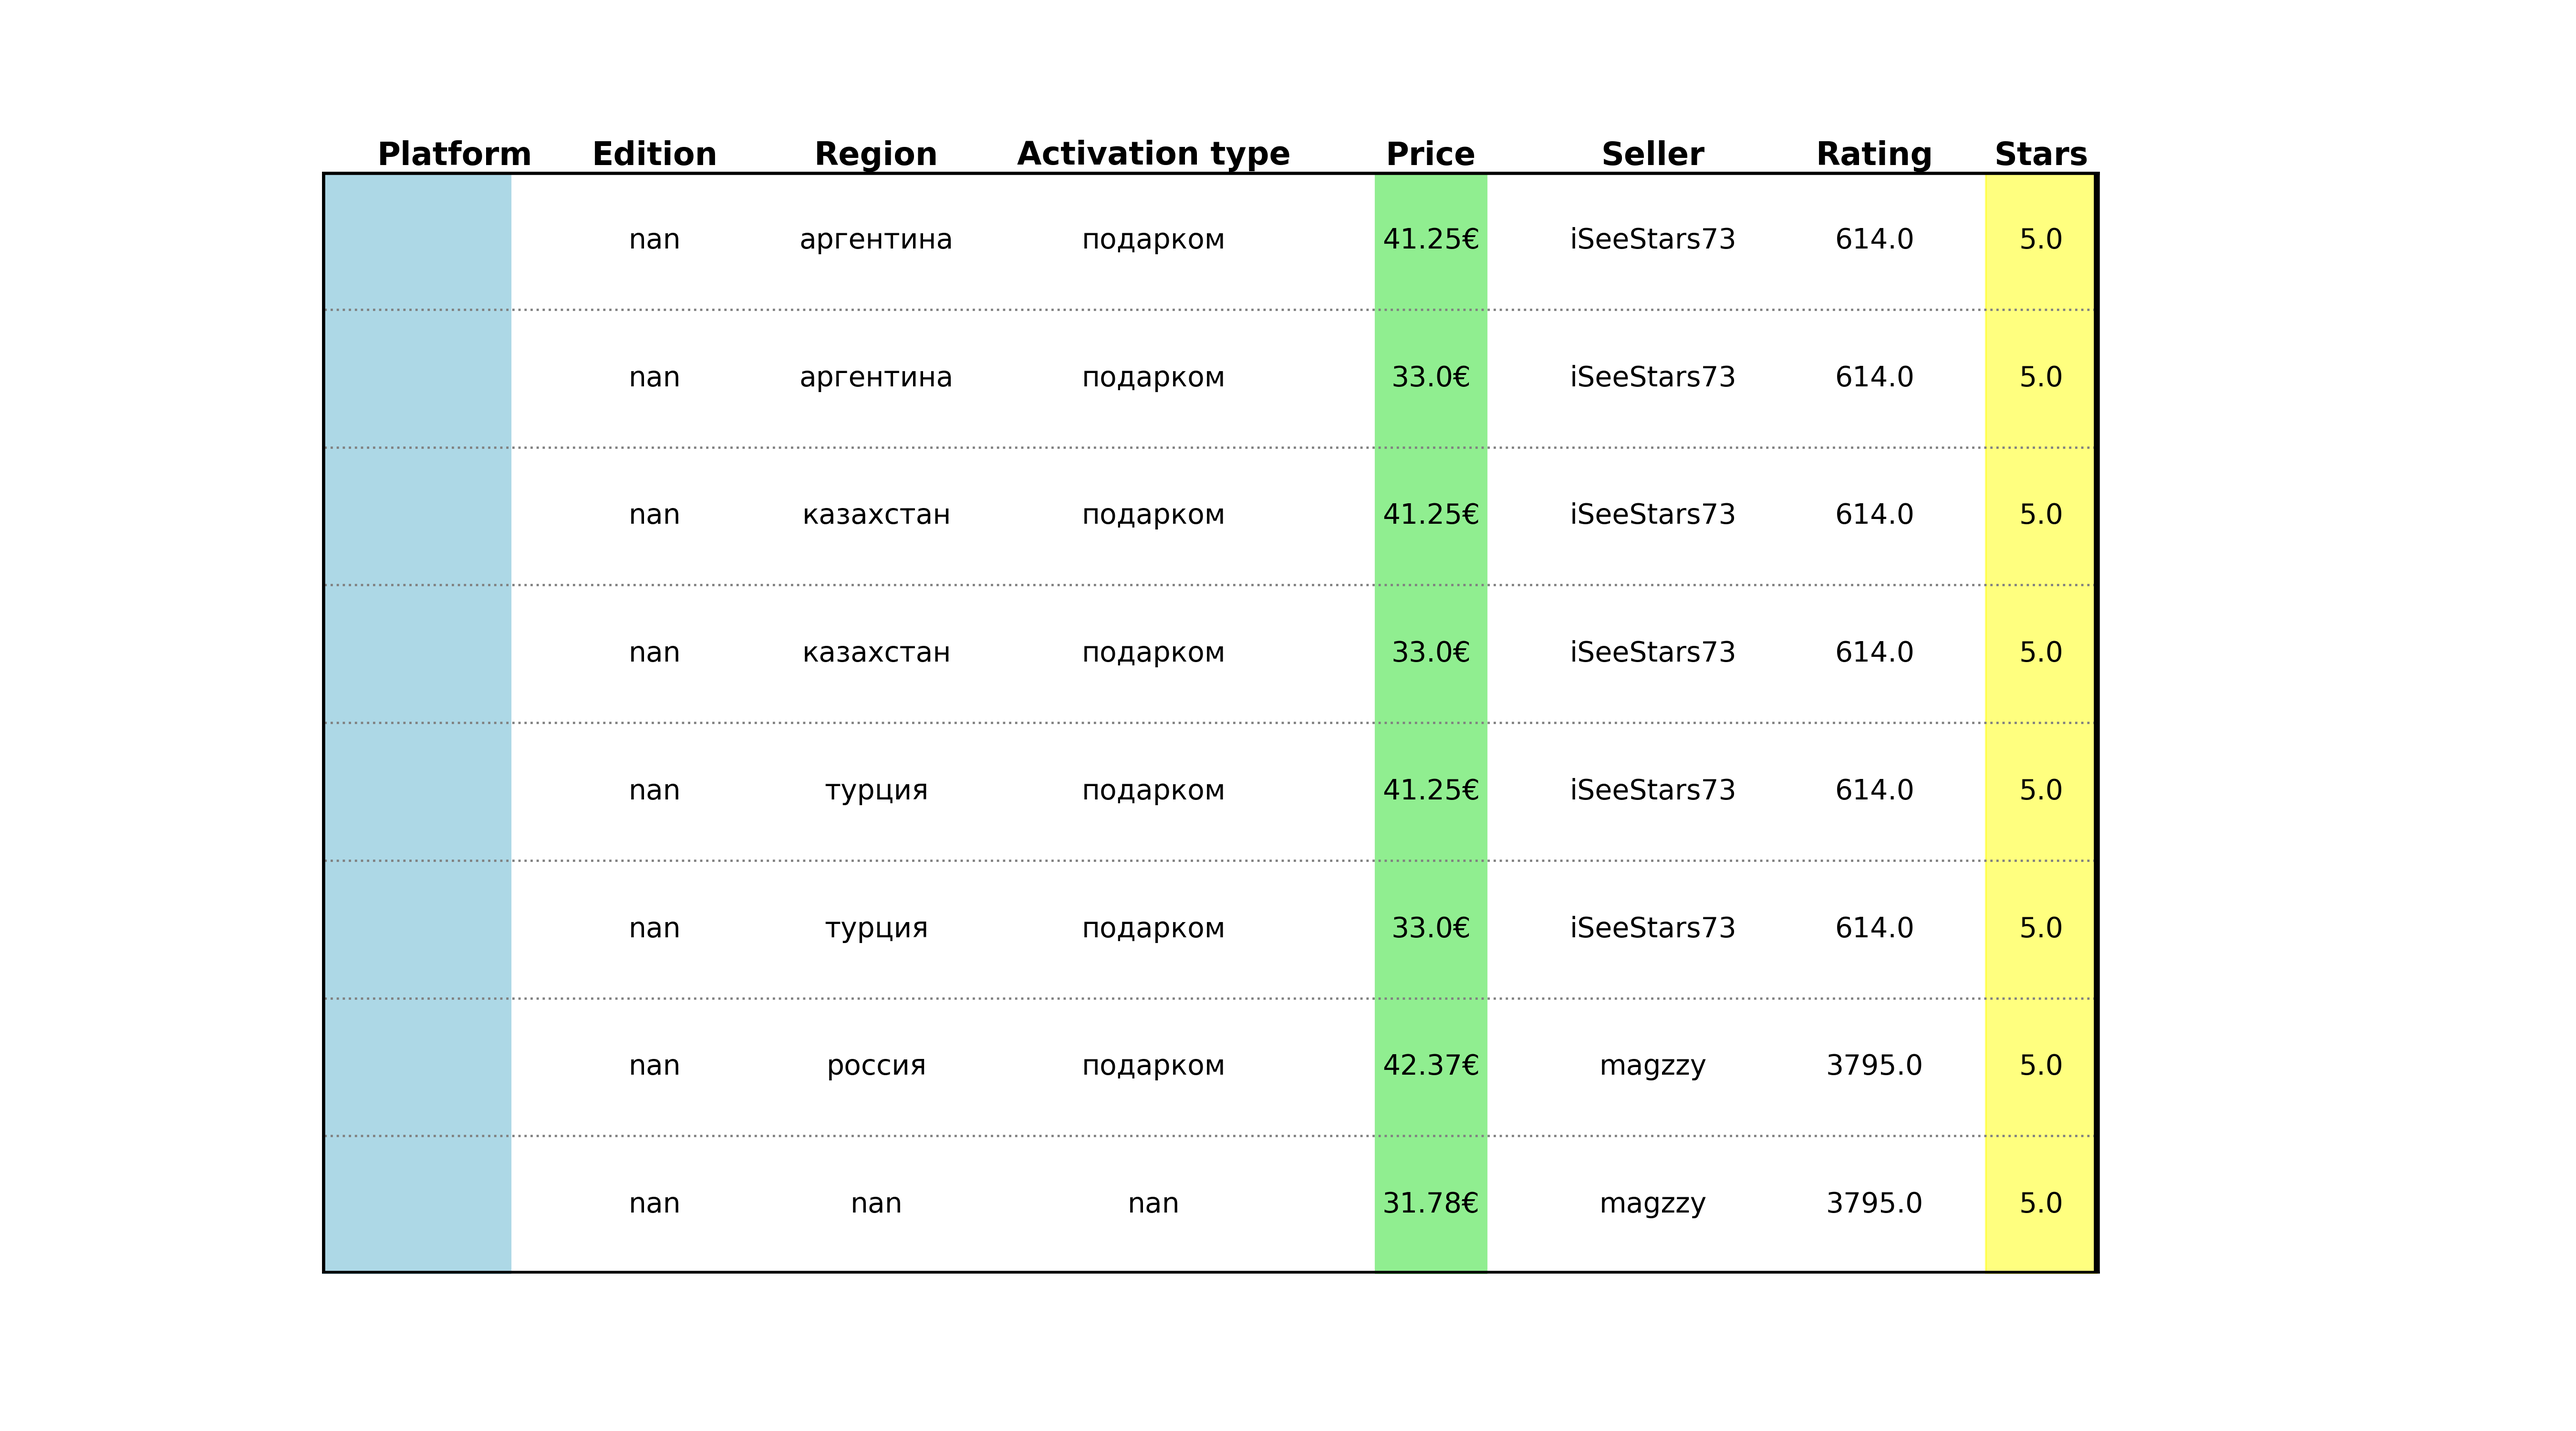
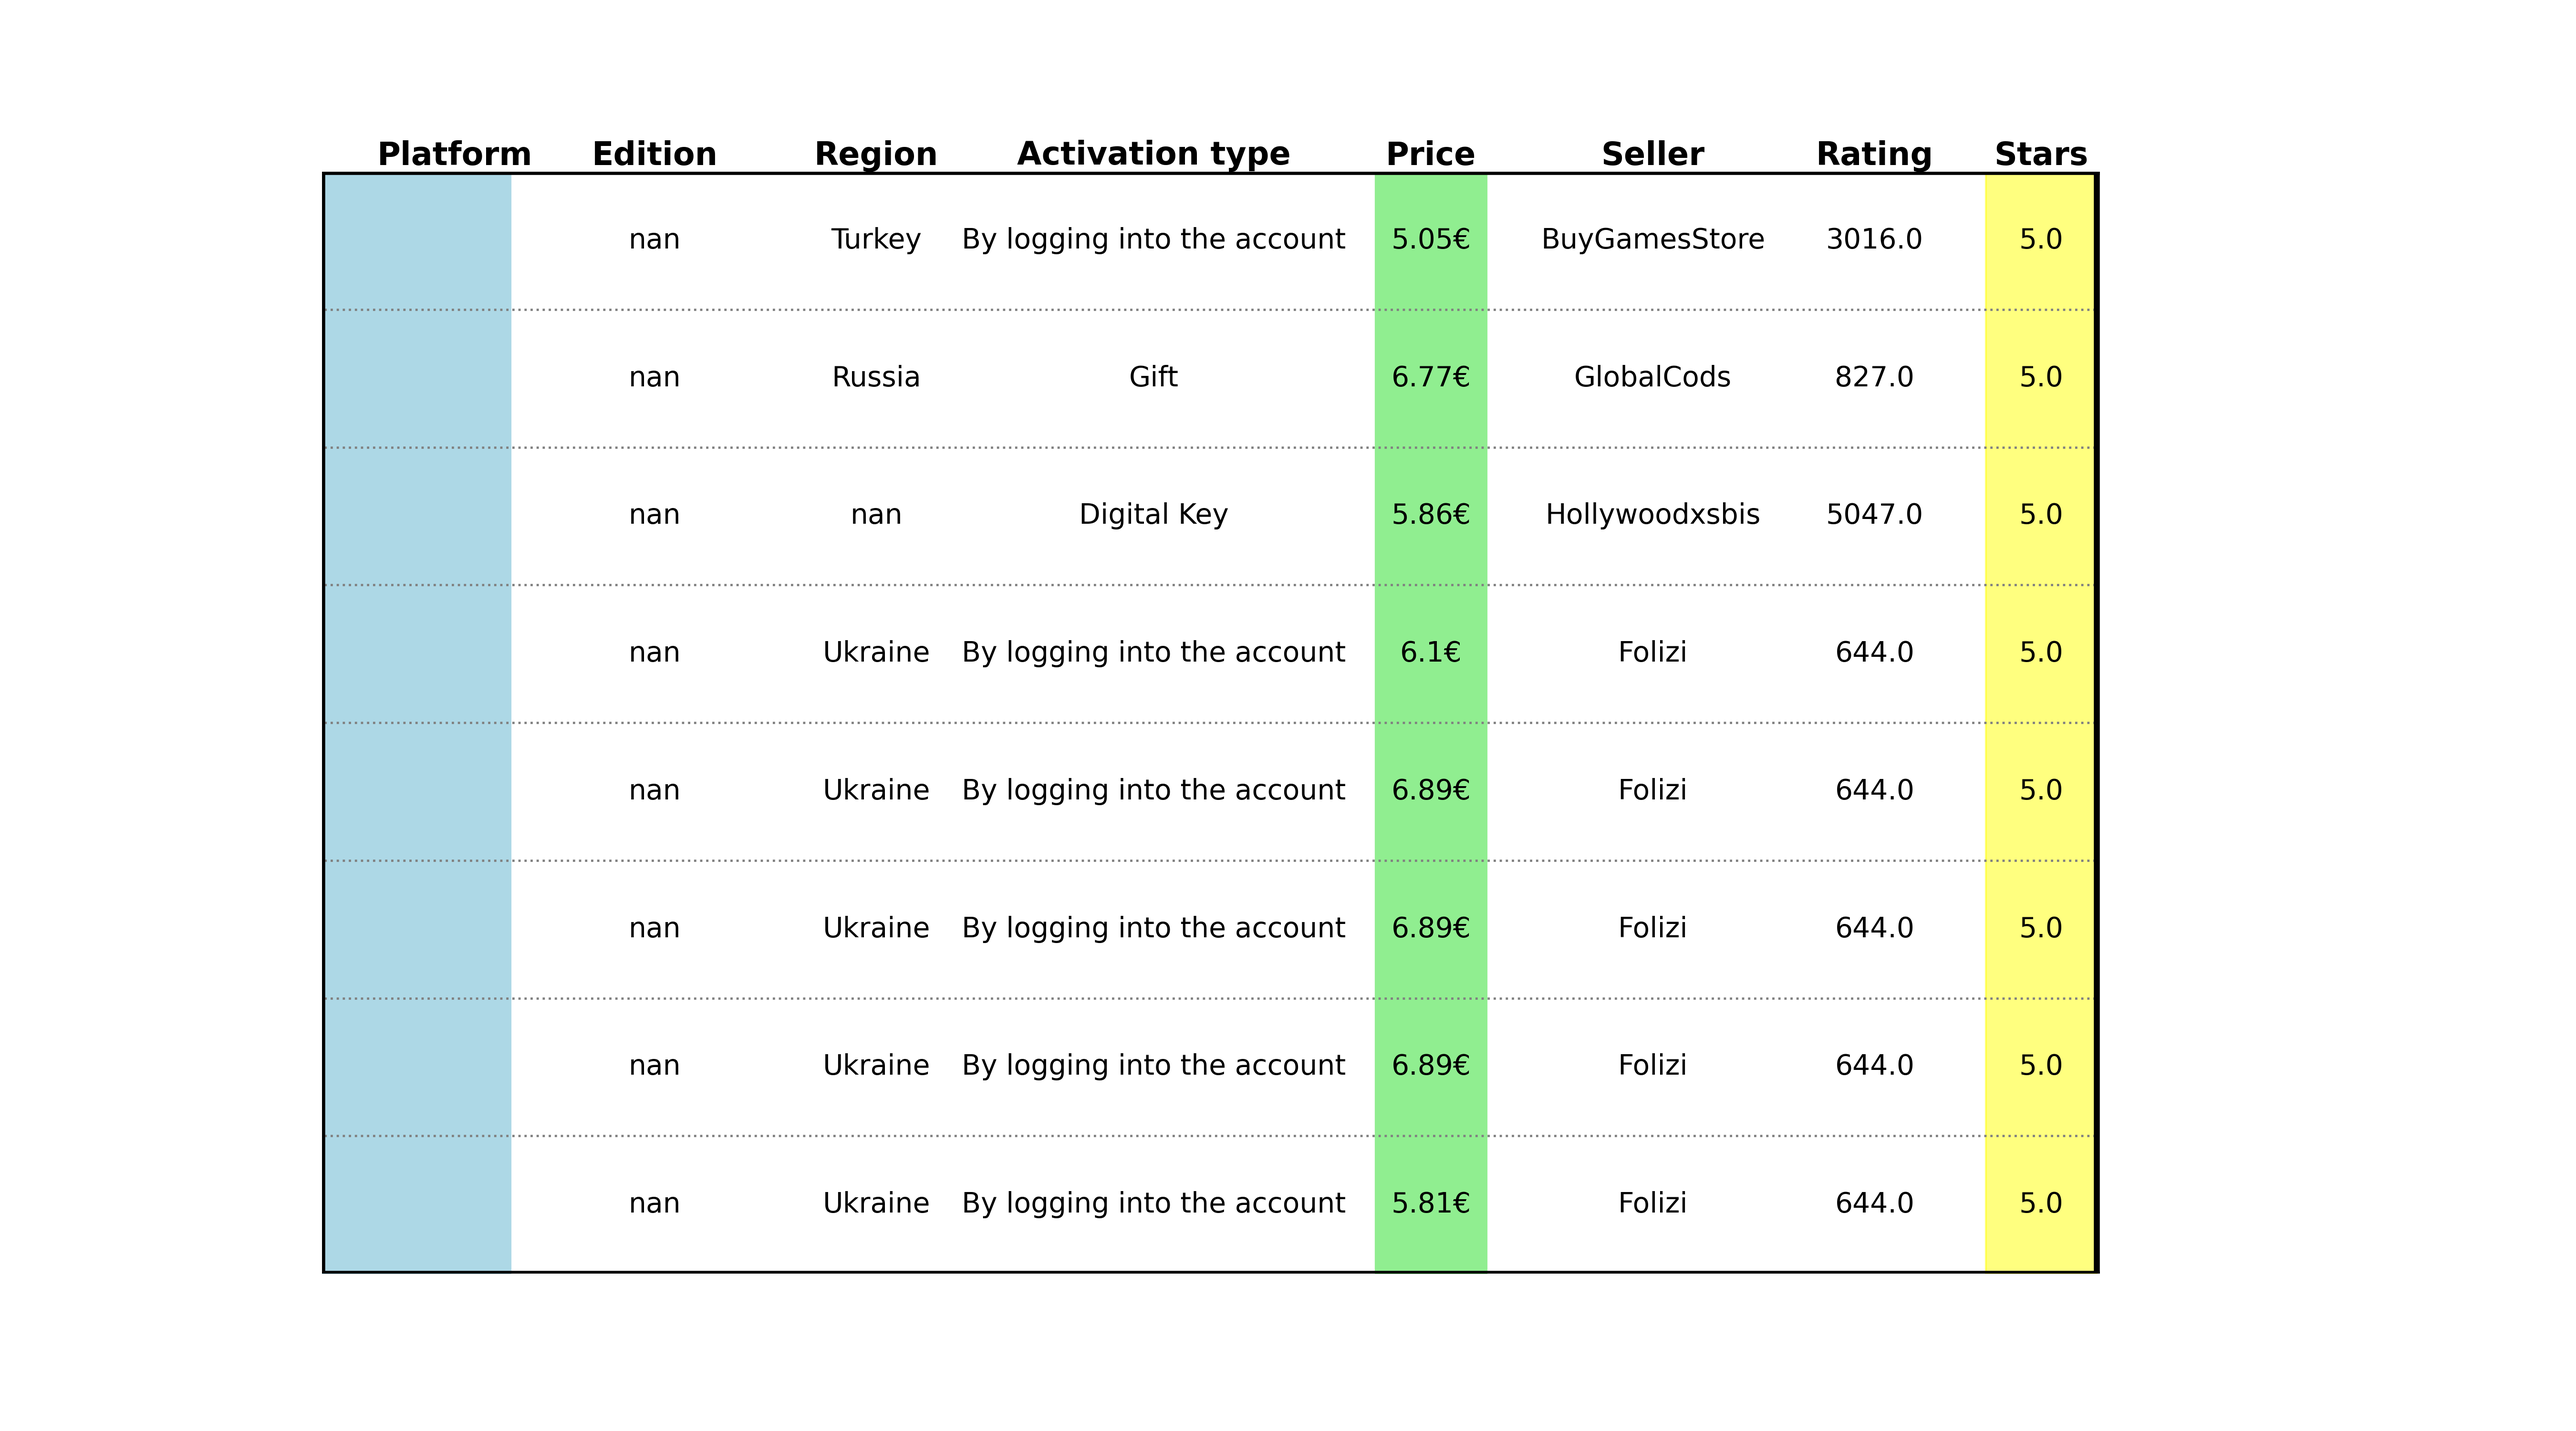
updated parsing

diff --git a/parsing.py b/parsing.py
@@ -2,11 +2,64 @@ import requests
 from bs4 import BeautifulSoup
 import pandas as pd
 
+import main
 
-def parsing_function(url):
+
+def find_game_key_link(funpay_url, game_title):
+    response = requests.get(funpay_url)
+    if response.status_code != 200:
+        print("Failed to retrieve the webpage")
+        return None
+
+    soup = BeautifulSoup(response.content, 'html.parser')
+
+    game_items = soup.find_all('div', class_='promo-game-item')
+
+    for game_item in game_items:
+        title_div = game_item.find('div', class_='game-title')
+        if title_div and title_div.get_text(strip=True) == game_title:
+            ul_list = game_item.find('ul', {'data-id': title_div['data-id']})
+            if ul_list:
+                for li in ul_list.find_all('li'):
+                    if li.get_text(strip=True) == 'Keys':
+                        link = li.find('a', href=True)['href']
+                        return link
+
+    return None
 
 
-    response = requests.get(url)
+# Translation dictionary
+edition_translation_dict = {
+    "улучшение издания": "Edition upgrade"
+}
+
+region_translation_dict = {
+    "россия": "Russia",
+    "украина": "Ukraine",
+    "казахстан": "Kazakhstan",
+    "снг": "CIS",
+    "другой регион": "Other region",
+    "турция": "Turkey",
+    "аргентина": "Argentina"
+}
+
+activation_type_translation_dict = {
+    "с заходом на аккаунт": "By logging into the account",
+    "цифровой ключ": "Digital Key",
+    "подарком": "Gift"
+}
+
+
+def replace_text_using_dict(text, translation_dict):
+    if text in translation_dict:
+        return translation_dict[text]
+    return text
+
+
+def funpay_parsing(game_title):
+    funpay_url = 'https://funpay.com/en/'
+    link = find_game_key_link(funpay_url, game_title)
+    response = requests.get(link)
     html_doc = response.text
 
     soup = BeautifulSoup(html_doc, 'html.parser')
@@ -15,20 +68,36 @@ def parsing_function(url):
 
     data = []
 
-    for item in items:
+    for index, item in enumerate(items):
+        print(f"Processing item {index + 1}/{len(items)}")
+
         link = item.get('href', '')
+
         platform = item.get('data-f-platform', '')
+        if not platform:
+            platform_div = item.find('div', class_='tc-server-inside')
+            platform = platform_div.get_text(strip=True) if platform_div else ''
+
         edition = item.get('data-f-type', '')
         region = item.get('data-f-region', '')
         activation_type = item.get('data-f-method', '')
+
+        edition = replace_text_using_dict(edition, edition_translation_dict)
+        region = replace_text_using_dict(region, region_translation_dict)
+        activation_type = replace_text_using_dict(activation_type, activation_type_translation_dict)
+
         price_div = item.find('div', class_='tc-price')
         price = price_div.get_text(strip=True).replace('€', '').strip() if price_div else ''
+
         seller_div = item.find('div', class_='media-user-name')
         seller = seller_div.get_text(strip=True) if seller_div else ''
+
         rating_span = item.find('span', class_='rating-mini-count')
         rating = rating_span.get_text(strip=True) if rating_span else ''
+
         stars_div = item.find('div', class_='rating-stars')
         stars = stars_div['class'][1].split('-')[-1] if stars_div and 'class' in stars_div.attrs else ''
+
         avatar_photo_div = item.find('div', class_='avatar-photo')
         seller_profile = avatar_photo_div[
             'data-href'] if avatar_photo_div and 'data-href' in avatar_photo_div.attrs else ''
@@ -49,3 +118,8 @@ def parsing_function(url):
     df = pd.DataFrame(data)
 
     df.to_excel('scraped_data.xlsx', index=False)
+
+    print("Data scraping completed.")
+
+
+

diff --git a/main.py b/main.py
@@ -14,6 +14,7 @@ import json
 from telegram.ext import Updater
 import os
 
+
 with open(os.path.dirname(os.path.realpath(__file__)) + '/token.txt') as file:
     TOKEN = file.readline().strip()
 
@@ -61,13 +62,15 @@ def validation_of_game(message, user_input, Option):
     if url is not None:
         if Option == 'first':
             print('ok')
-            parsing.parsing_function(str(url))
-            print('nice')
+            #update_game_title(user_input)
+            #parsing_info = user_input
+            parsing.funpay_parsing(str(user_input))
+
             process_first_option_input(message)
 
         else:
-            print('not ok')
-            parsing.parsing_function(str(url))
+            parsing.funpay_parsing(str(user_input))
+
             process_second_option_input(message)
     else:
         bot.send_message(message.chat.id, f'You entered the wrong name of a game, please try again: {user_input}')
